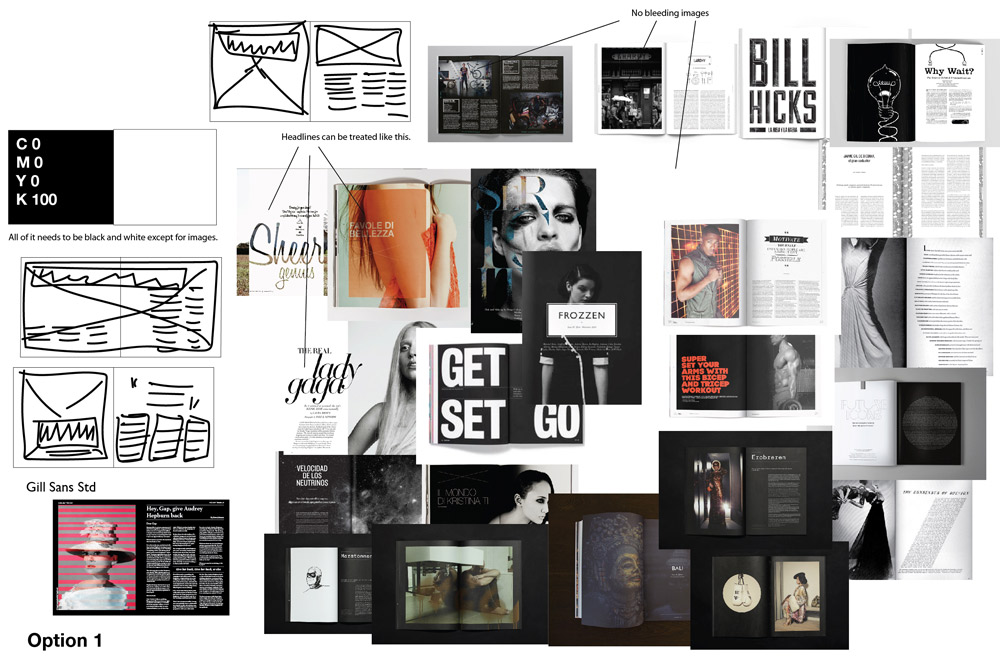
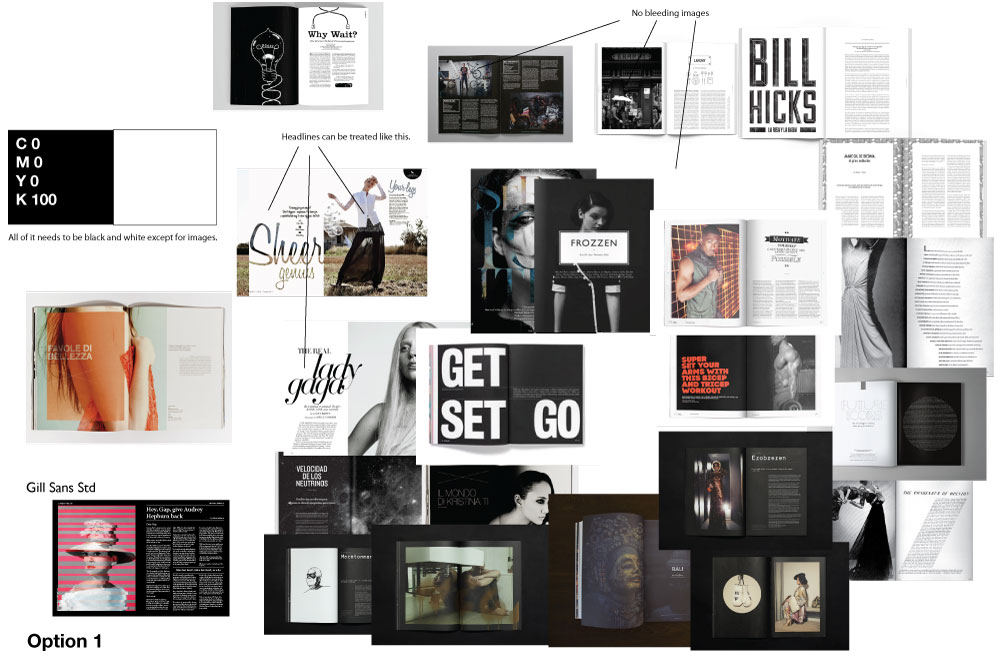
added images and content to magazine layout

diff --git a/work/chic-magazine.html b/work/chic-magazine.html
@@ -12,23 +12,20 @@ para2: The purpose of this project was to create a layout that was cohesive thro
 next-project: Gateway
 nexturl: work/gateway
 
-researchpara:
+researchpara: The first part of the project was to determine who the target audience was and then to create a layout and design that would cater the a persona of an individual who would be part of that audience.
 
 img-research1:
-  -
+  - magazine/target-audience.jpg
 img-reserach1-alt:
 
 img-research2:
-  -
+  - magazine/persona.jpg
 img-reserach2-alt:
 
 img-research3:
-  -
+  - magazine/layouts.jpg
 img-reserach3-alt:
 
-img-research4:
-  -
-img-research4-alt:
 
 
 designpara: In order to figure out what direction to take in the design on the magazine layout two moodboards were created. The first option was a moodboard that was more targeted a young working woman who is interested in culture and art. The second option was targeted towards a slightly younger demographic that also interested unique and innovative designs.
@@ -45,10 +42,18 @@ para3: The second option for the layout and look and feel of the magazine was ch
 para4: Keeping in mind that the audience that the magazine is being design to target three elements were taken into consideration. Black and white were the main two colour and the only element of colour was through the images that went along with the article. With the Gill Sans as the chosen font it added a flare of fun when juxtaposed against the colours and imagery.
 
 img-solution1:
-  -
+  - magazine/page1.jpg
 img-solution1-alt:
 
 img-solution2:
-  -
+  - magazine/page2.jpg
 img-solution2-alt:
+
+img-solution3:
+  - magazine/page3.jpg
+img-solution3-alt:
+
+img-solution4:
+  - magazine/page4.jpg
+img-solution3-alt:
 ---
